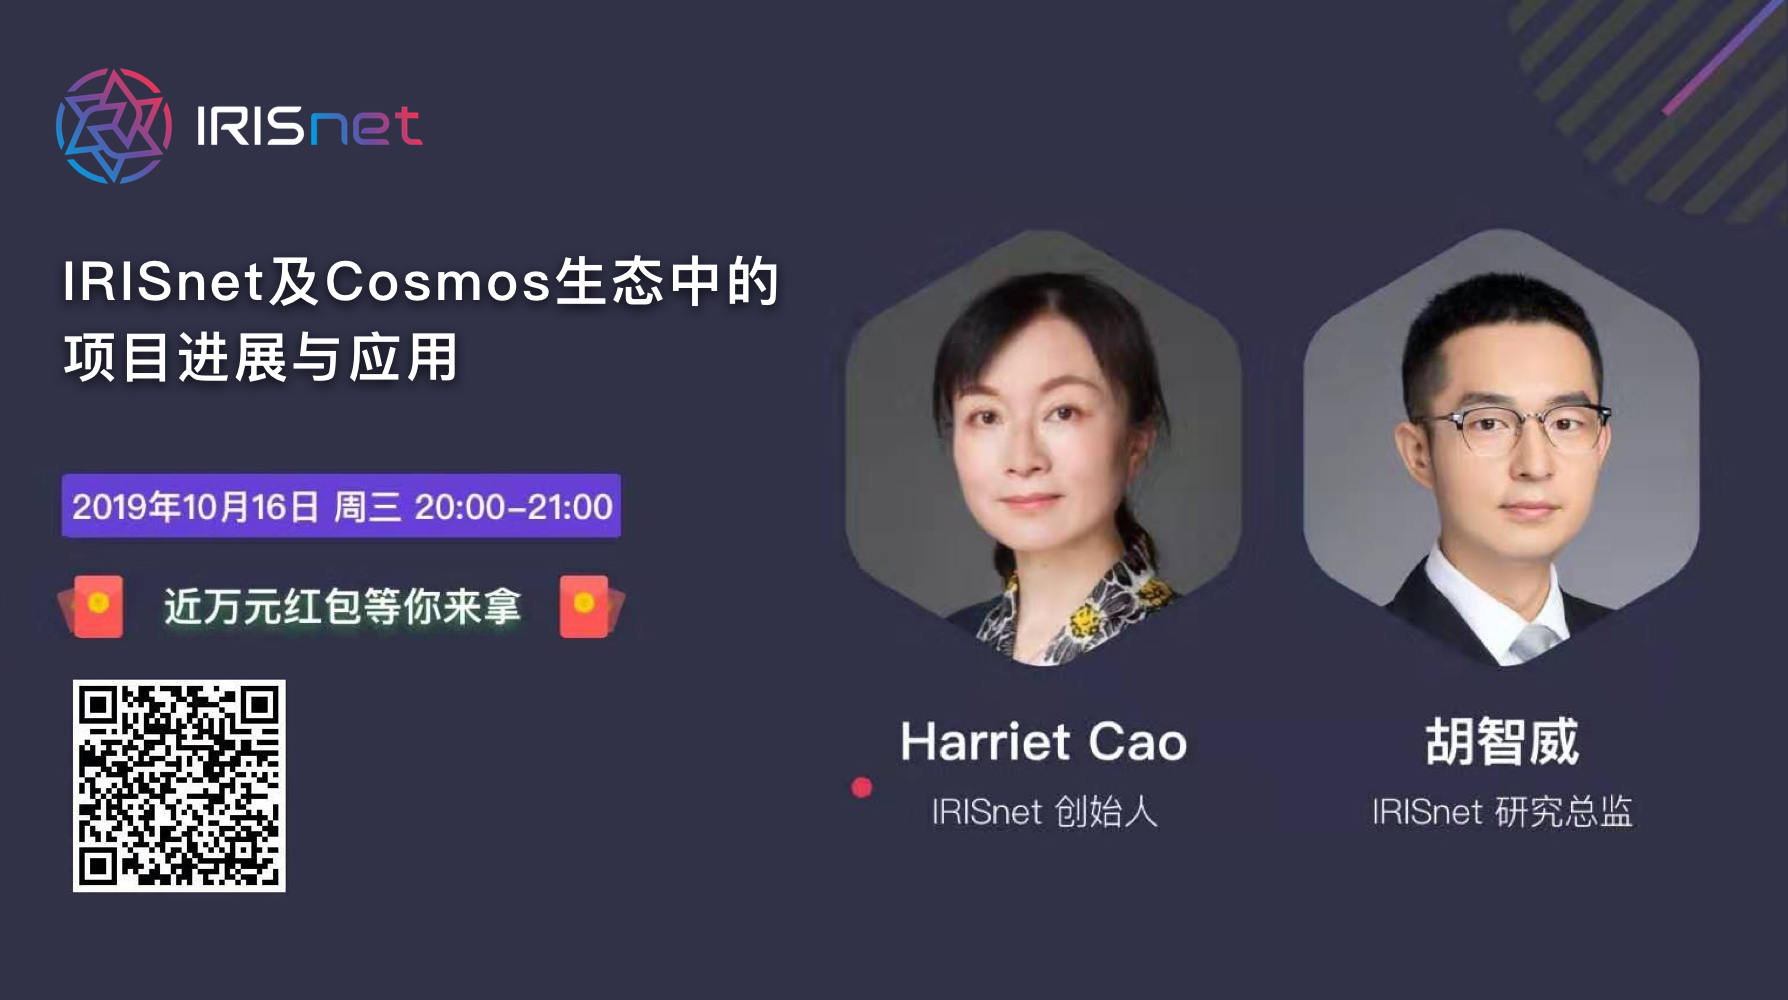
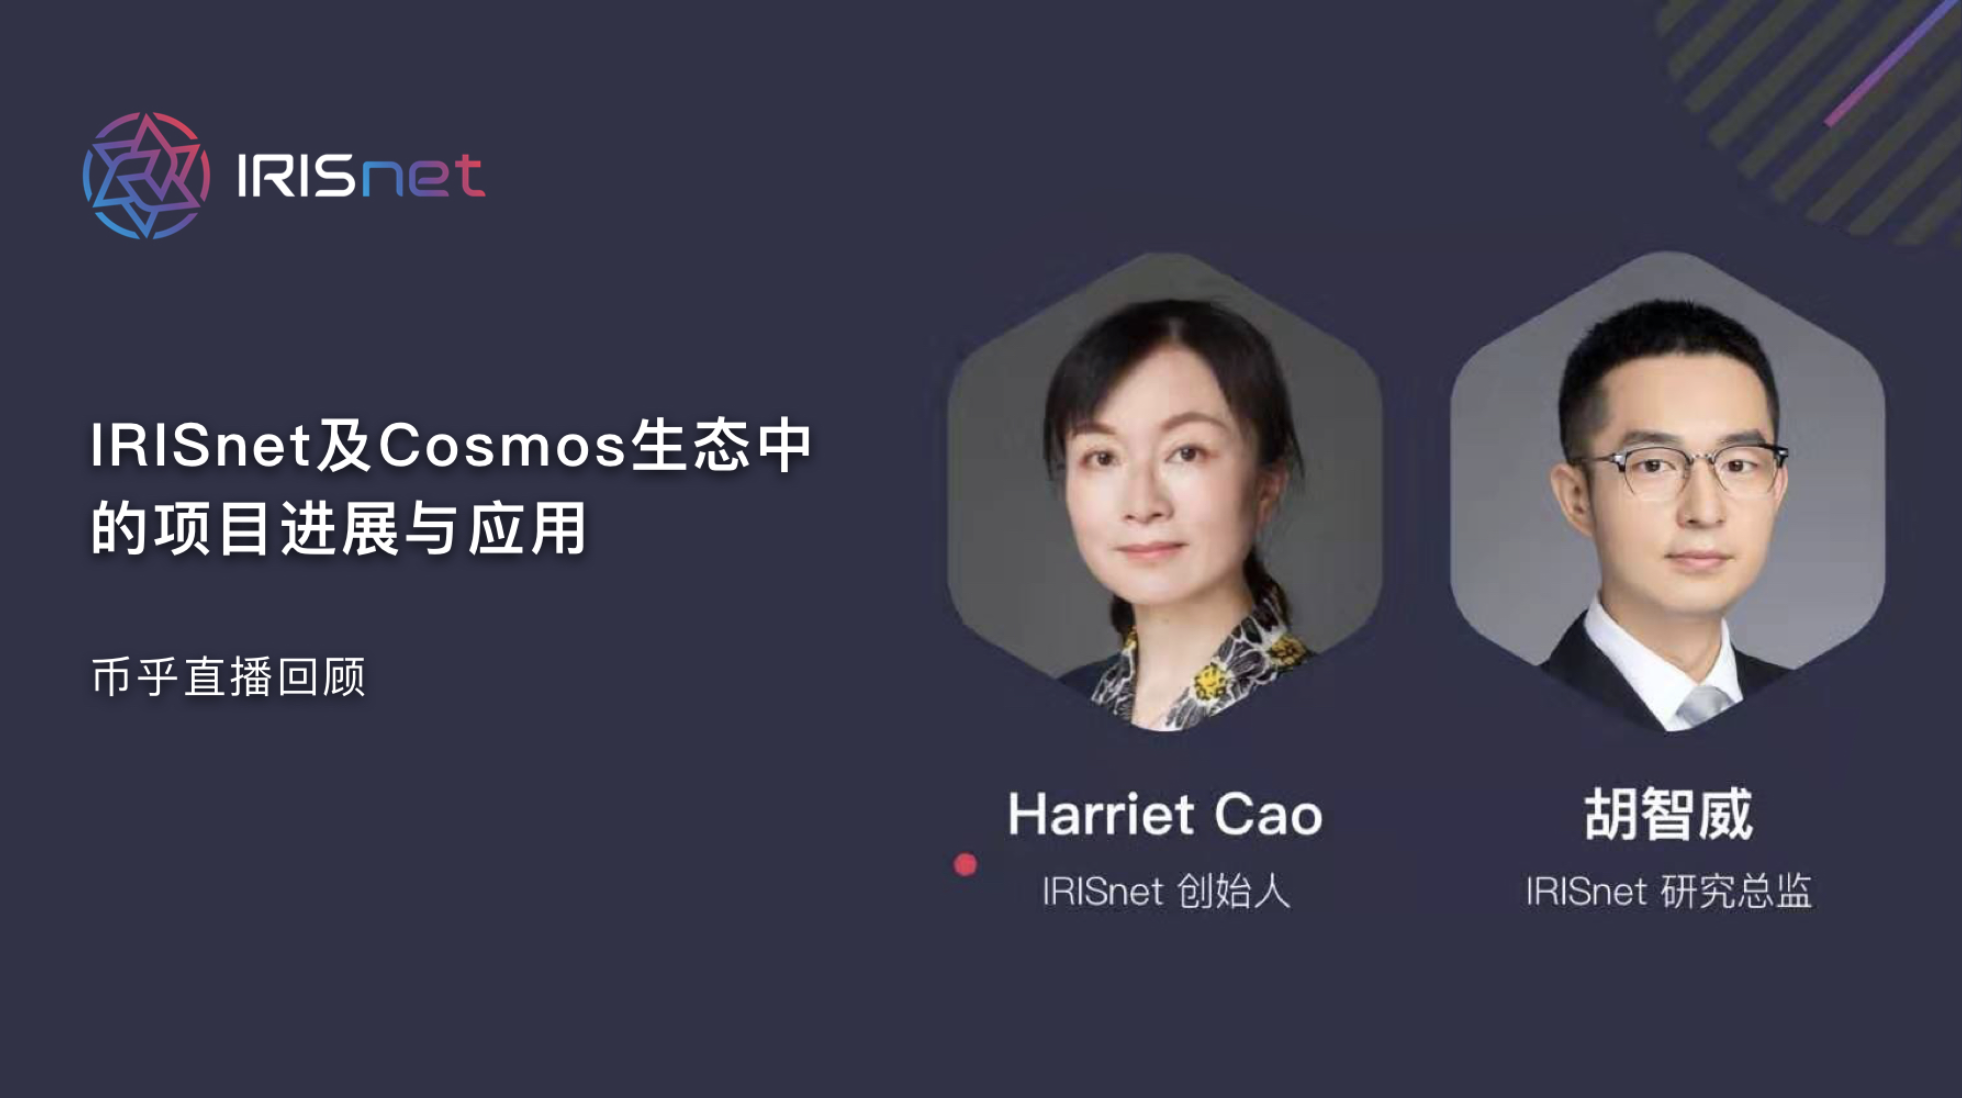
update events review

diff --git a/src/assets/lang/en.js b/src/assets/lang/en.js
@@ -642,26 +642,33 @@ export const message = {
                 title: 'Events Review',
                 leftList: [
                     {
+                        img:'irisnet_event_10_25.png',
+                        href:'https://medium.com/irisnet-blog/follow-retweet-to-help-iris-binance-dex-listing-7c27cc36dfd1',
+                        title:'Follow & Retweet to Help IRIS Binance DEX Listing',
+                        content:'Follow & Retweet to Help IRIS Binance DEX Listing'
+                    },
+                    {
+                        img:'irisnet_event_10_15.png',
+                        href:'https://medium.com/irisnet-blog/project-progress-applications-in-irisnet-cosmos-ecosystem-bihu-ama-review-725b78d8f59d',
+                        title:'Bihu AMA Review',
+                        content:'Project Progress & Applications in IRISnet & Cosmos Ecosystem |Bihu AMA Review'
+                    },
+                    
+                    
+                ],
+                rightList:[
+                    {
                         img:'irisnet_bug_bounty.png',
                         href:'https://medium.com/irisnet-blog/irisnet-launches-bug-bounty-ii-join-and-win-the-prize-47845defc9fe',
                         title:'IRISnet',
                         content:'Opened! IRIS Hub Bug Bounty II Program for new version release'
                     },
-                    {
+                  /*  {
                         img:'IRISnet_axonomy_defi_en.jpg',
                         href:'javascript:void(0)',
                         title:'Axonomy',
                         content:'AXONOMY DEFI Alliance Strategic Conference'
-                    },
-                    
-                ],
-                rightList:[
-                    {
-                        img:'IRISnet_events_buidl.jpg',
-                        href:'javascript:void(0)',
-                        title:'BUIDL ASIA 2019',
-                        content:'Korea BUIDL Keynote speech: DeFi application support on BPoS Blockchain'
-                    },
+                    },*/
                     {
                         img:'IRISnet_ico.png',
                         href:'https://medium.com/irisnet-blog/2019-7-15-ama-42f4a5fbe5f0',

diff --git a/src/assets/lang/cn.js b/src/assets/lang/cn.js
@@ -663,34 +663,34 @@ export const message = {
                 title: '活动回顾',
                 leftList: [
                     {
+                        img:'irisnet_event_10_25.png',
+                        href:'https://mp.weixin.qq.com/s/NV34GBOfapbXAJUs9GzXog',
+                        title:'助力赢50,000 IRIS大奖！',
+                        content:'IRISnet发起币安DEX上币提案，助力赢50,000 IRIS大奖！'
+                    },
+                    {
                         img:'irisnet_event_10_15.png',
                         href:'https://mp.weixin.qq.com/s/rLCi2By-yGFyu1-ysSqYtg',
                         title:'币乎直播回顾',
                         content:'IRISnet及Cosmos生态中的项目进展与应用 | 币乎直播回顾'
                     },
+                 
+                   
+                  
+                ],
+                rightList:[
                     {
                         img:'irisnet_event_08-26.png',
                         href:'https://mp.weixin.qq.com/s/rfvlA34U9nN8gC1yaL5sWw',
                         title:'对话真本聪',
                         content:'对话真本聪：多资产模块即将上线，IRIS是否会迎来爆发期？'
                     },
-                   
-                  
-                ],
-                rightList:[
                     {
                         img:'irisnet_bug_bounty.png',
                         href:'https://mp.weixin.qq.com/s/ybf5pt49dtVqRVYlVPuTNg',
                         title:'IRISnet',
                         content:'IRISnet发起新一轮漏洞赏金计划，参与赢大奖！'
                     },
-                    {
-                        img:'irisnet_cosmos_sdk.png',
-                        href:'https://mp.weixin.qq.com/s/E8uhI72LpAyOjX2khkppeA',
-                        title:'Cosmos SDK',
-                        content:'Cosmos SDK开发者见面会 - 深圳站'
-                    },
-                    
                 ],
             }
         },
